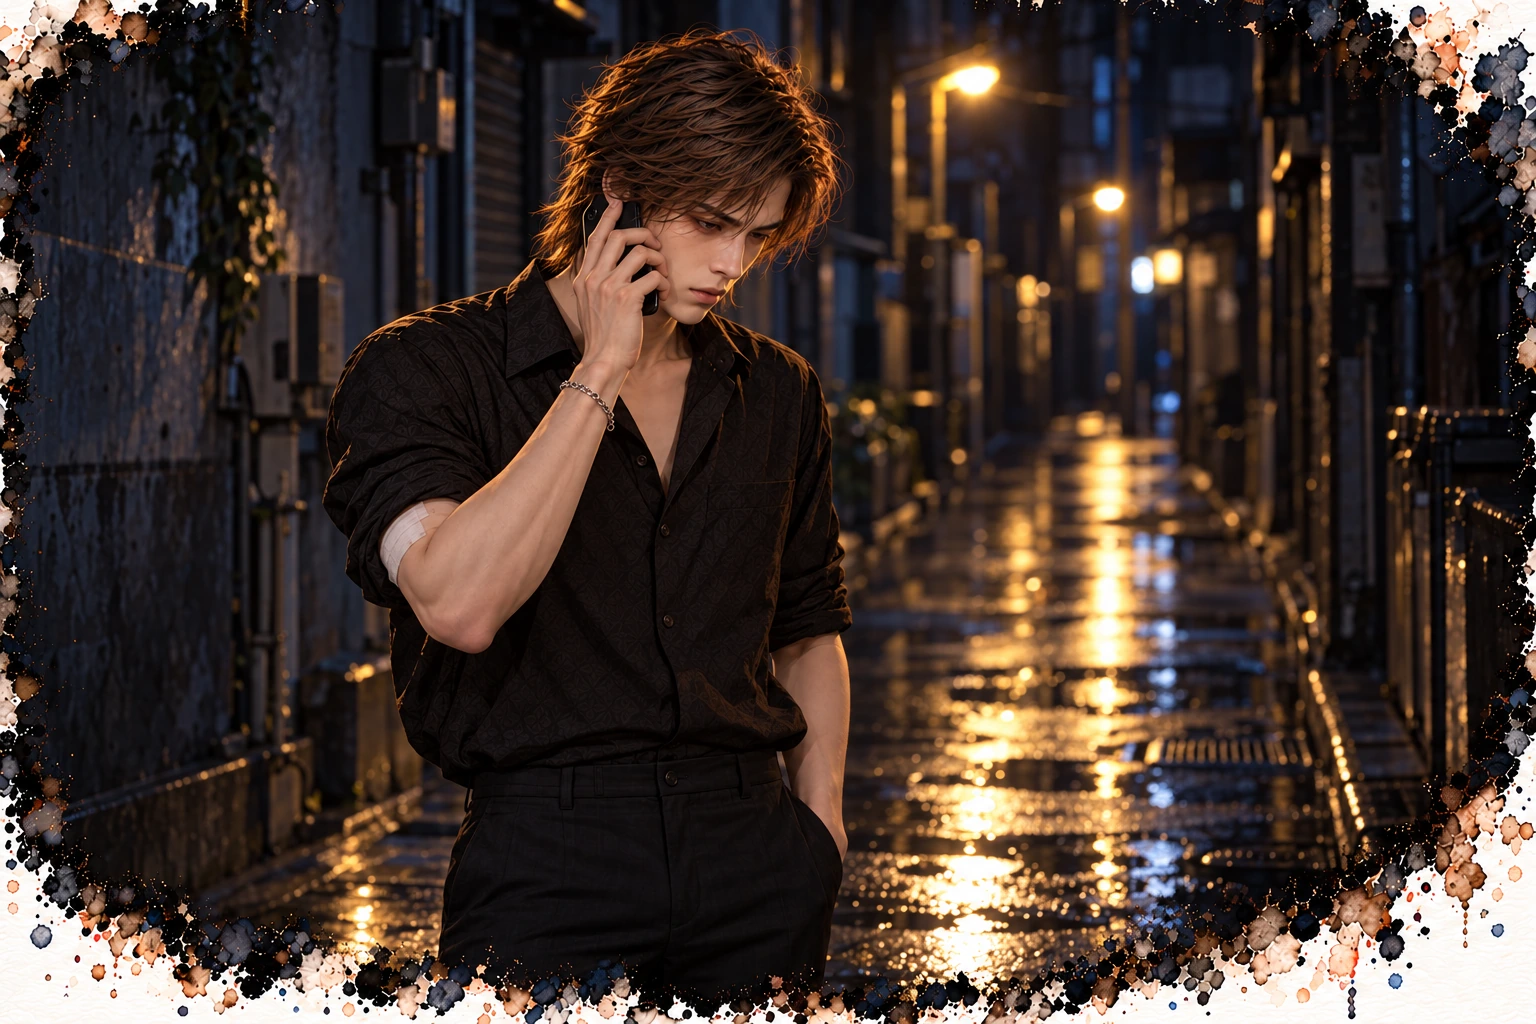
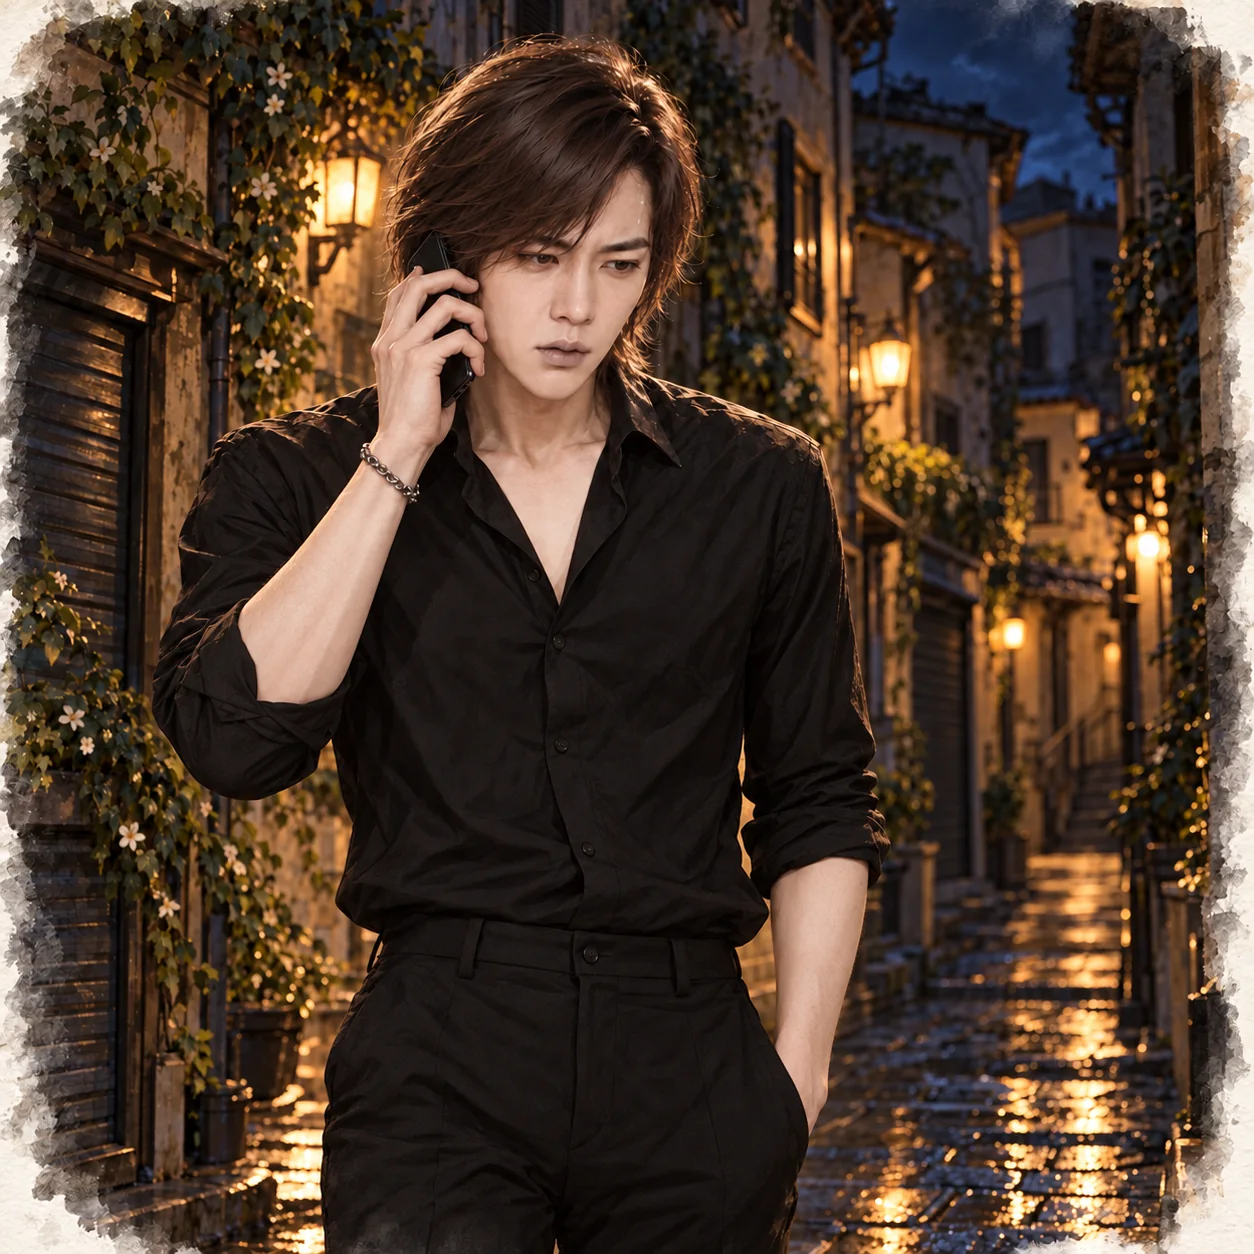
沒有招牌的酒吧 第一部第九章：替換江澈插圖
Claude-Session: https://claude.ai/code/session_01HUwf2ENyDuzceKaKYawxmj

diff --git a/novels/no-signboard-bar/chapter-09.html b/novels/no-signboard-bar/chapter-09.html
@@ -194,7 +194,7 @@
 <p>我兩個都沒做。我把它留在相機裡，像留一顆沒拆的炸彈。</p>
 </section>
 <section class="pov pov-jiang" data-name="江澈">
-<div class="pov-opening"><h2 class="pov-title" id="pov-4"><span>敘事視角</span>江澈</h2><a class="pov-art" href="../../assets/novels/no-signboard-bar/chapter-09-jiang-che.webp" target="_blank" rel="noopener" aria-label="開啟江澈插圖大圖"><img src="../../assets/novels/no-signboard-bar/chapter-09-jiang-che.webp" alt="江澈在雨停後的濕巷接電話，右手握緊手機，肩膀繃著。" width="1536" height="1024" loading="lazy" decoding="async"><span class="pov-cap">時間、地點，我來選。</span></a><div class="pov-intro"><p>電話響到第三聲才有人接。</p>
+<div class="pov-opening"><h2 class="pov-title" id="pov-4"><span>敘事視角</span>江澈</h2><a class="pov-art" href="../../assets/novels/no-signboard-bar/chapter-09-jiang-che.webp?v=20261013" target="_blank" rel="noopener" aria-label="開啟江澈插圖大圖"><img src="../../assets/novels/no-signboard-bar/chapter-09-jiang-che.webp?v=20261013" alt="雨停後濕漉漉的巷子，江澈站在路燈下講電話，一手插在口袋，臉色蒼白、眉頭壓著。" width="1254" height="1254" loading="lazy" decoding="async"><span class="pov-cap">時間、地點，我來選。</span></a><div class="pov-intro"><p>電話響到第三聲才有人接。</p>
 <p>「江先生。」</p>
 <p>年輕人的聲音，客客氣氣的，像在跟我約吃飯。</p></div></div>
 <p>「她喝了。」他說。</p>
